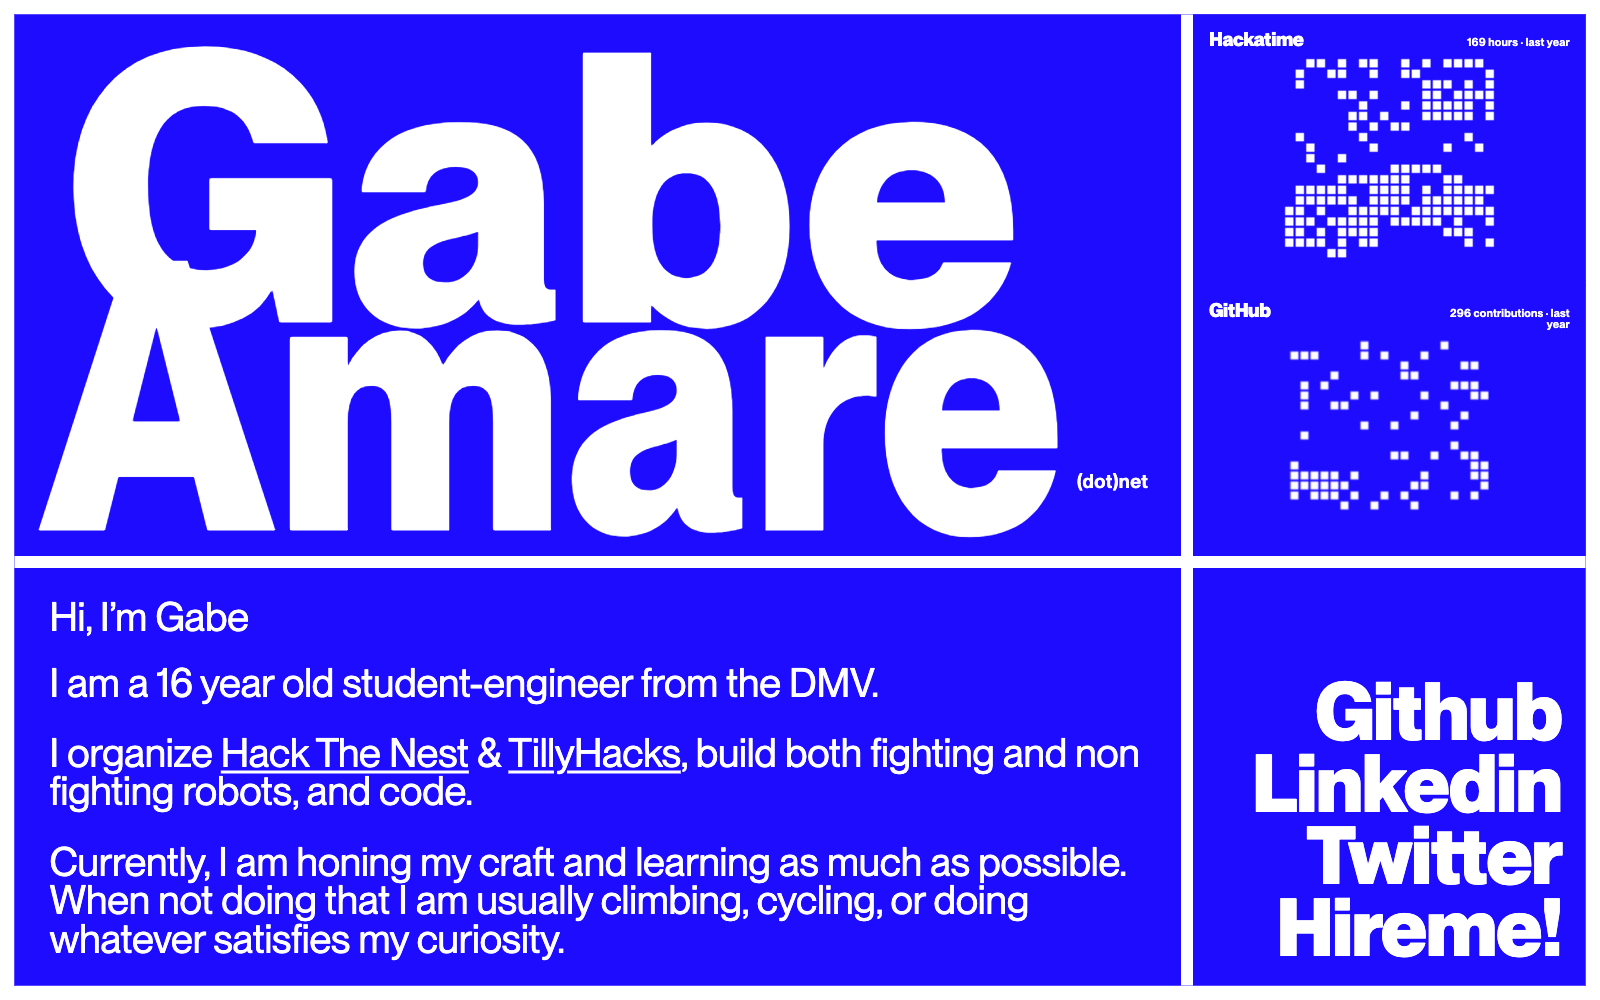
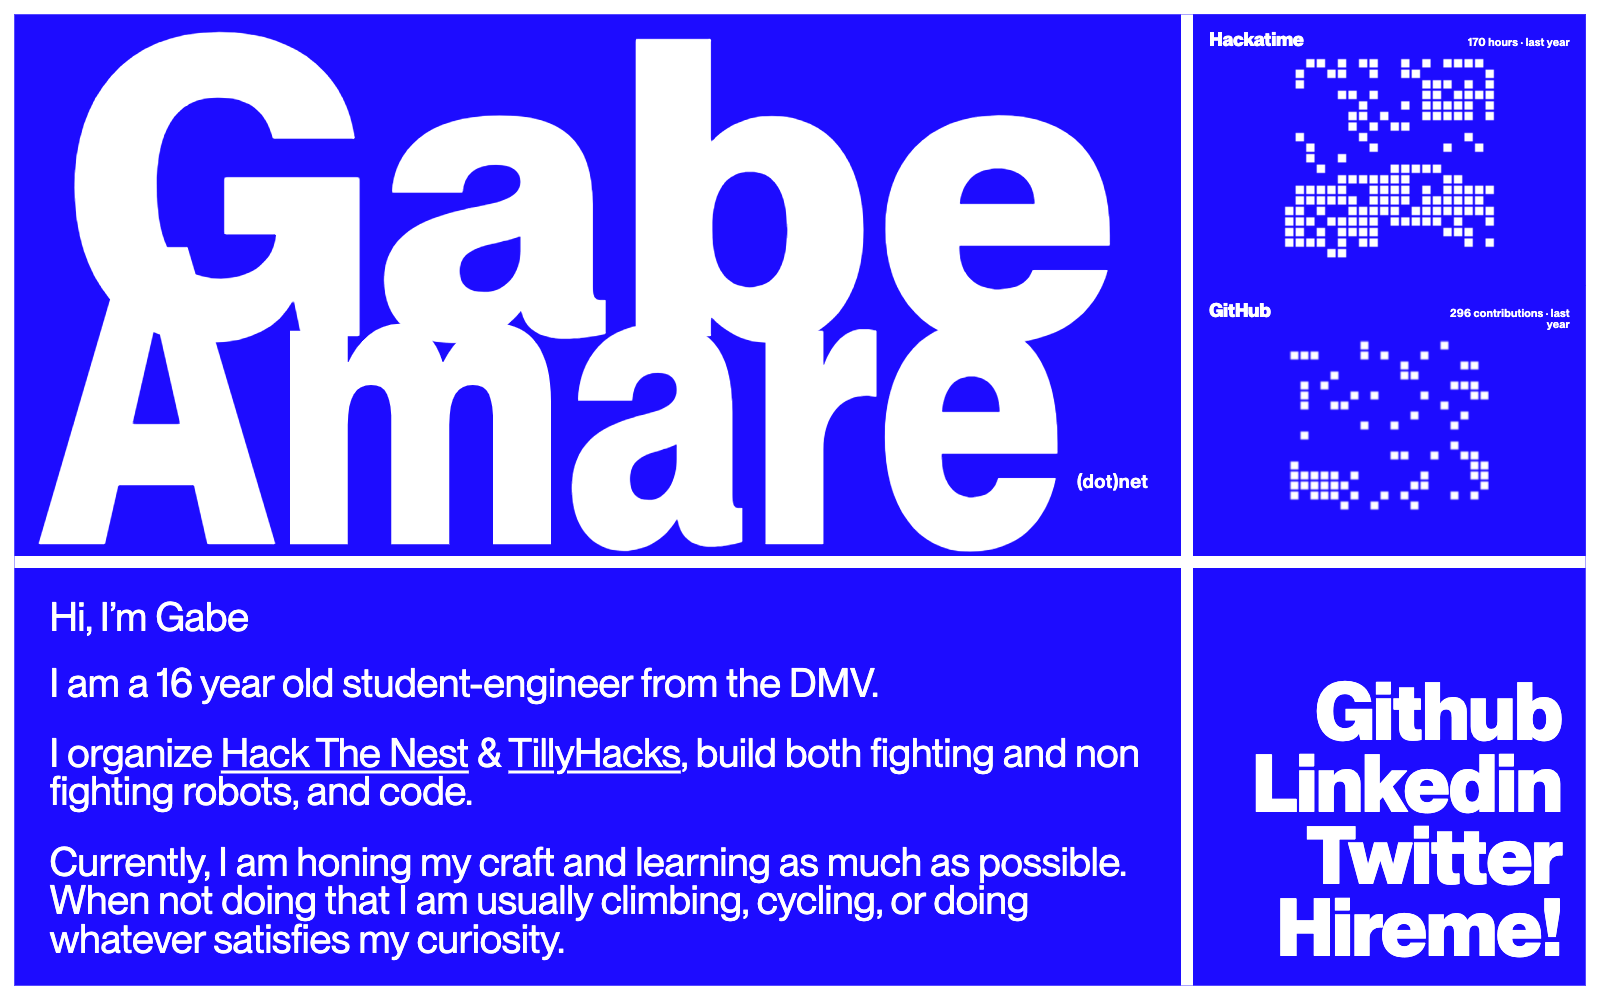
Scale wordmark up ten percent

diff --git a/app/home.module.css b/app/home.module.css
@@ -64,7 +64,7 @@
 .nameWord {
   display: block;
   white-space: nowrap;
-  transform: scaleY(1.18);
+  transform: scaleY(1.3);
   transform-origin: left center;
 }
 
@@ -73,7 +73,7 @@
 }
 
 .nameLine:first-child .nameWord {
-  transform: scale(1.18);
+  transform: scale(1.3);
 }
 
 .domainLine {
